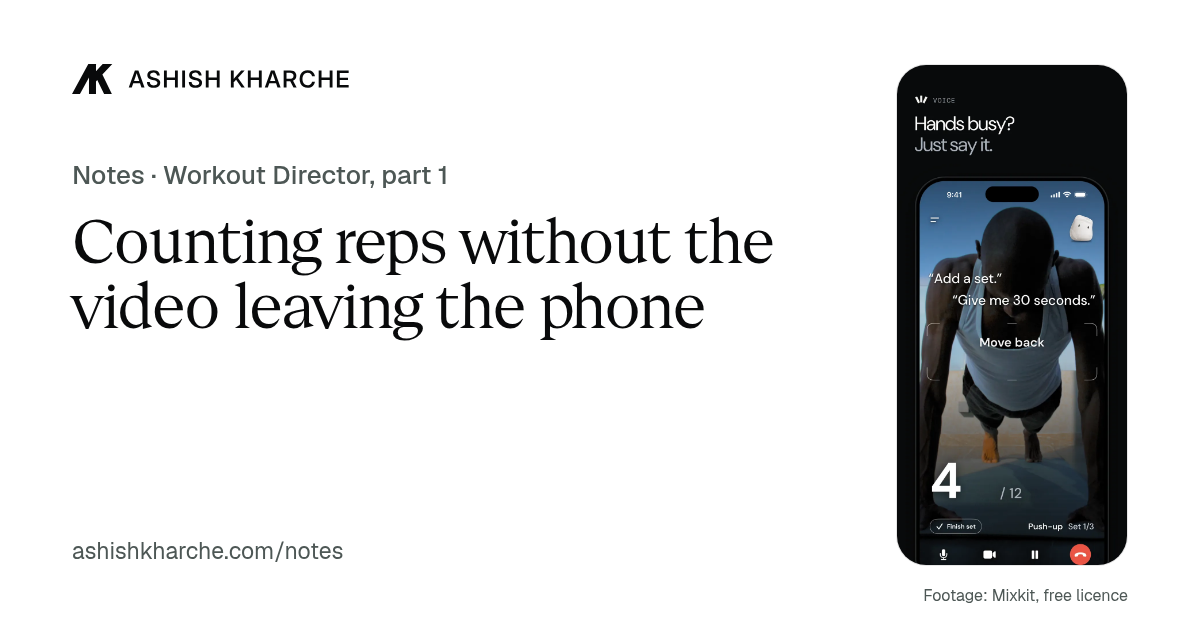
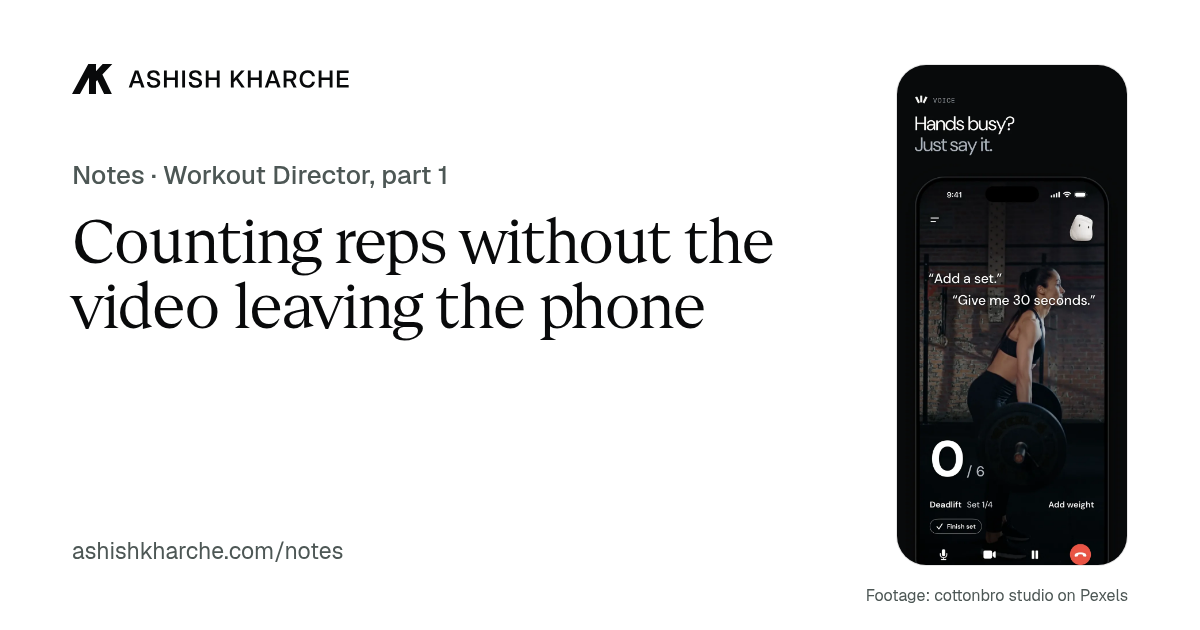
Show the Pexels Voice screen in note 1 and correct notes 1 and 2
Note 1 showed the Voice screen with the Mixkit push-up clip. It now shows
the same screen captured with the Pexels deadlift clip ("A Woman Lifting A
Barbell" by cottonbro studio, Pexels 7674505), taken from 040fe69 on
fix/selected-work-cards. The file is a separate 02-voice-pexels screen so
the home page, project cards and case study keep 02-voice until that branch
is decided. The footage credit is now worked out per screen, so note 1
credits cottonbro studio on Pexels and every other page keeps the Mixkit
credit. Note 1's link preview card uses the same screen and credit.

The on-device boundary diagram drops the "video never recorded, saved or
uploaded" and "no video" labels. It now shows only what does leave the
phone: text state notes and, with the coach on, the microphone audio to the
voice coach, and synced sets to the backend. The diagram's text
alternative matches on note 1 and the case study.

Note 1 no longer says the rep classifier was trained only on data licensed
for commercial use. Note 2 no longer presents the equipment halo as the fix
for line flicker (it is bench-only, experimental, off by default and failed
the flicker check), says the app ships still start and end figures rather
than animations, and describes the clothes as shorts and a t-shirt.

Changed region(s): [[0.74, 0.2714, 0.925, 0.8444], [0.7092, 0.9349, 0.9558, 0.9651]]

diff --git a/src/content/workoutDirectorScreens.ts b/src/content/workoutDirectorScreens.ts
@@ -24,8 +24,22 @@ export interface Screen {
   label: string
   /** What the screen shows, used as alt text. The headline on the screen comes first. */
   alt: string
-  /** The camera view shows licensed stock footage (Mixkit) played into the app, so it carries a credit. */
-  footage?: boolean
+  /** Where the stock footage played into the camera view comes from, so the screen carries a credit. */
+  footage?: FootageSource
+}
+
+/** Stock footage libraries used in the camera screens. */
+export type FootageSource = 'mixkit' | 'pexels'
+
+/**
+ * The credit for each library. Neither licence requires one, but both ask for
+ * it. The Pexels clip in 02-voice-pexels is "A Woman Lifting A Barbell" by
+ * cottonbro studio (https://www.pexels.com/video/7674505/), under the Pexels
+ * licence (https://www.pexels.com/license/).
+ */
+const footageCredits: Record<FootageSource, string> = {
+  mixkit: 'Mixkit, free licence',
+  pexels: 'cottonbro studio on Pexels',
 }
 
 const allScreens = {
@@ -33,19 +47,19 @@ const allScreens = {
     id: '01-rep-counting',
     label: 'Rep counting',
     alt: 'Every rep, counted for you. A goblet squat set on camera, with the count at 2 of 10, set 1 of 4, at 16 kg.',
-    footage: true,
+    footage: 'mixkit',
   },
   '02-voice': {
     id: '02-voice',
     label: 'Voice',
     alt: 'Hands busy? Just say it. A man doing push-ups on a balcony, counted on the live camera at 4 of 12, with example requests such as "Add a set" and "Give me 30 seconds".',
-    footage: true,
+    footage: 'mixkit',
   },
   '03-live-coach': {
     id: '03-live-coach',
     label: 'Live Coach',
     alt: 'A coach in your corner. A man doing push-ups on the live camera, counted at 7 of 12, while the voice coach tells him to brace his core.',
-    footage: true,
+    footage: 'mixkit',
   },
   '04-manual': {
     id: '04-manual',
@@ -72,6 +86,17 @@ const allScreens = {
     label: 'Today',
     alt: "Today's workout, ready when you are. A 14 minute full body plan for the day with a Start workout button.",
   },
+  // Not in the gallery: the same Voice screen as 02-voice, captured with a
+  // Pexels deadlift clip in the camera view instead of the Mixkit push-up clip
+  // (commit 040fe69 on fix/selected-work-cards). Only note 1 shows it, until
+  // the rest of the site moves to the Pexels captures. iPhone copies only, so
+  // `pnpm wd-screens` leaves its files alone.
+  '02-voice-pexels': {
+    id: '02-voice-pexels',
+    label: 'Voice',
+    alt: 'Hands busy? Just say it. A woman lifting a barbell deadlift on the live camera, at the start of a set of 6, with example requests such as "Add a set" and "Give me 30 seconds".',
+    footage: 'pexels',
+  },
 } satisfies Record<string, Screen>
 
 export type ScreenId = keyof typeof allScreens
@@ -92,18 +117,26 @@ export const shownScreenIds: ScreenId[] = [
   '08-today',
 ]
 
-export const screens: Screen[] = shownScreenIds.map((id) => allScreens[id])
+/** Screens that have web copies but are not in the gallery (iPhone copies only). */
+export const extraScreenIds: ScreenId[] = ['02-voice-pexels']
 
-/** Credit for the stock footage in the camera screens. Mixkit asks for, but does not require, a credit. */
-export const footageCredit = 'Footage: Mixkit, free licence.'
+export const screens: Screen[] = shownScreenIds.map((id) => allScreens[id])
 
 /** Whether any of these screens shows stock footage, so the credit should be shown with them. */
 export function hasFootage(ids: readonly ScreenId[]): boolean {
   return ids.some((id) => Boolean((allScreens[id] as Screen).footage))
 }
 
+/** The footage credit for a group of screens, naming only the libraries those screens use. */
+export function footageCredit(ids: readonly ScreenId[]): string {
+  const sources = new Set(ids.flatMap((id) => (allScreens[id] as Screen).footage ?? []))
+  const names = (['mixkit', 'pexels'] as const).filter((source) => sources.has(source)).map((s) => footageCredits[s])
+  return names.length ? `Footage: ${names.join('; ')}.` : ''
+}
+
 export function screen(id: ScreenId): Screen {
-  if (!shownScreenIds.includes(id)) throw new Error(`Screen ${id} is not in shownScreenIds`)
+  if (!shownScreenIds.includes(id) && !extraScreenIds.includes(id))
+    throw new Error(`Screen ${id} is not in shownScreenIds or extraScreenIds`)
   return allScreens[id]
 }
 

diff --git a/scripts/og-images.ts b/scripts/og-images.ts
@@ -6,6 +6,7 @@ import { tmpdir } from 'node:os'
 import { join } from 'node:path'
 import { chromium } from '@playwright/test'
 import { noteOgImages, ogImages } from '../src/content/ogImages.ts'
+import { footageCredit, type ScreenId } from '../src/content/workoutDirectorScreens.ts'
 
 const root = new URL('../', import.meta.url).pathname
 const publicDir = join(root, 'public')
@@ -46,7 +47,8 @@ const cards: Card[] = [
     eyebrow: 'Notes · Workout Director, part 1',
     title: 'Counting reps without the video leaving the phone',
     footer: 'ashishkharche.com/notes',
-    phones: ['/assets/img/wd/iphone/02-voice-800.webp'],
+    // The note shows the Pexels capture of the Voice screen, so its card does too.
+    phones: ['/assets/img/wd/iphone/02-voice-pexels-800.webp'],
   },
   {
     src: noteOgImages['workout-director-2'].src,
@@ -73,8 +75,9 @@ function html(card: Card, brand: string): string {
   const art = card.phones
     ? card.phones.map((src) => `<img class="phone" src="${asset(src)}" alt="">`).join('')
     : (card.figures ?? []).map((src) => `<img class="figure" src="${asset(src)}" alt="">`).join('')
-  // The camera screens show Mixkit stock footage, credited under the phones.
-  const footage = (card.phones ?? []).some((src) => /\/0[123]-[a-z-]+-800\.webp$/.test(src))
+  // The camera screens show stock footage, credited under the phones.
+  const ids = (card.phones ?? []).map((src) => /\/([0-9]{2}-[a-z-]+)-800\.webp$/.exec(src)?.[1] as ScreenId)
+  const footage = footageCredit(ids).replace(/\.$/, '')
   const textWidth = card.phones
     ? 1200 - 144 - card.phones.length * 245 - 40
     : card.figures
@@ -106,7 +109,7 @@ ${card.subtitle ? `<p class="subtitle">${escape(card.subtitle)}</p>` : ''}
 ${card.footer ? `<p class="footer">${escape(card.footer)}</p>` : ''}
 </div>
 ${art ? `<div class="art">${art}</div>` : ''}
-${footage ? '<p class="credit">Footage: Mixkit, free licence</p>' : ''}
+${footage ? `<p class="credit">${escape(footage)}</p>` : ''}
 </div></body></html>`
 }
 

diff --git a/scripts/wd-screens.ts b/scripts/wd-screens.ts
@@ -1,13 +1,15 @@
 // Makes the web copies of the Workout Director App Store screens: AVIF and
 // WebP at the widths in src/content/workoutDirectorScreens.ts, for the screens
 // listed there. Reads the PNGs from <folder>/iphone69 and <folder>/ipad13 and
-// never changes them. Old copies of screens no longer listed are removed.
+// never changes them. Old copies of screens no longer listed are removed,
+// except the iPhone copies of the extra screens, which are not made from the set.
 // Usage: pnpm wd-screens <folder with iphone69/ and ipad13/>
 import { mkdir, readdir, rm } from 'node:fs/promises'
 import { basename, join } from 'node:path'
 import sharp from 'sharp'
 import {
   deviceSize,
+  extraScreenIds,
   screenPath,
   screenWidths,
   shownScreenIds,
@@ -24,6 +26,10 @@ for (const device of ['iphone', 'ipad'] as const) {
   const outDir = join(publicDir, 'assets/img/wd', device)
   await mkdir(outDir, { recursive: true })
   const keep = new Set<string>()
+  if (device === 'iphone')
+    for (const id of extraScreenIds)
+      for (const width of screenWidths.iphone)
+        for (const format of ['avif', 'webp'] as const) keep.add(basename(screenPath(id, device, width, format)))
   for (const id of shownScreenIds) {
     const input = join(source, folders[device], `${id}.png`)
     const meta = await sharp(input).metadata()

diff --git a/src/components/Screens.tsx b/src/components/Screens.tsx
@@ -31,7 +31,7 @@ interface PictureProps {
 /** The stock footage credit, shown under any group of screens that has a camera view in it. */
 export function FootageCredit({ ids }: { ids: readonly ScreenId[] }) {
   if (!hasFootage(ids)) return null
-  return <p {...stylex.props(styles.credit)}>{footageCredit}</p>
+  return <p {...stylex.props(styles.credit)}>{footageCredit(ids)}</p>
 }
 
 /** One App Store screen: AVIF where the browser takes it, WebP otherwise, at the size it is shown. */
@@ -109,7 +109,7 @@ export function Shots({ screens: ids, caption }: { screens: ScreenId[]; caption:
       ))}
       <figcaption {...stylex.props(styles.caption, styles.fullRow)}>
         {caption}
-        {hasFootage(ids) ? ` ${footageCredit}` : null}
+        {hasFootage(ids) ? ` ${footageCredit(ids)}` : null}
       </figcaption>
     </figure>
   )

diff --git a/tests/unit/content-rules.test.ts b/tests/unit/content-rules.test.ts
@@ -98,7 +98,12 @@ describe('brand rules', () => {
     const { hasFootage, footageCredit } = await import('~/content/workoutDirectorScreens')
     expect(hasFootage(['02-voice'])).toBe(true)
     expect(hasFootage(['04-manual', '07-progress'])).toBe(false)
-    expect(footageCredit).toBe('Footage: Mixkit, free licence.')
+    expect(footageCredit(['02-voice', '04-manual'])).toBe('Footage: Mixkit, free licence.')
+    expect(footageCredit(['02-voice-pexels', '04-manual', '07-progress'])).toBe('Footage: cottonbro studio on Pexels.')
+    expect(footageCredit(['02-voice', '02-voice-pexels'])).toBe(
+      'Footage: Mixkit, free licence; cottonbro studio on Pexels.',
+    )
+    expect(footageCredit(['04-manual', '07-progress'])).toBe('')
   })
 
   it('shows no light Kalo screenshots next to the dark Workout Director screens', async () => {
